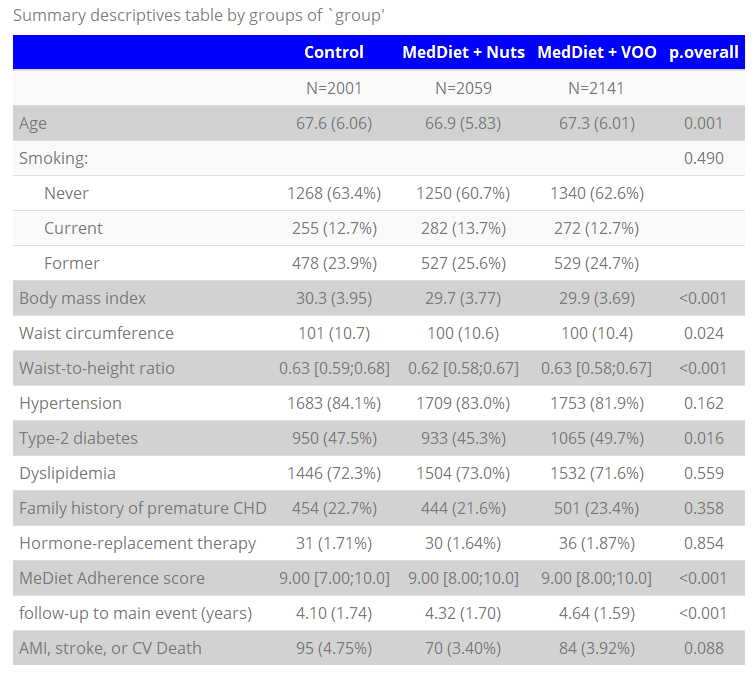
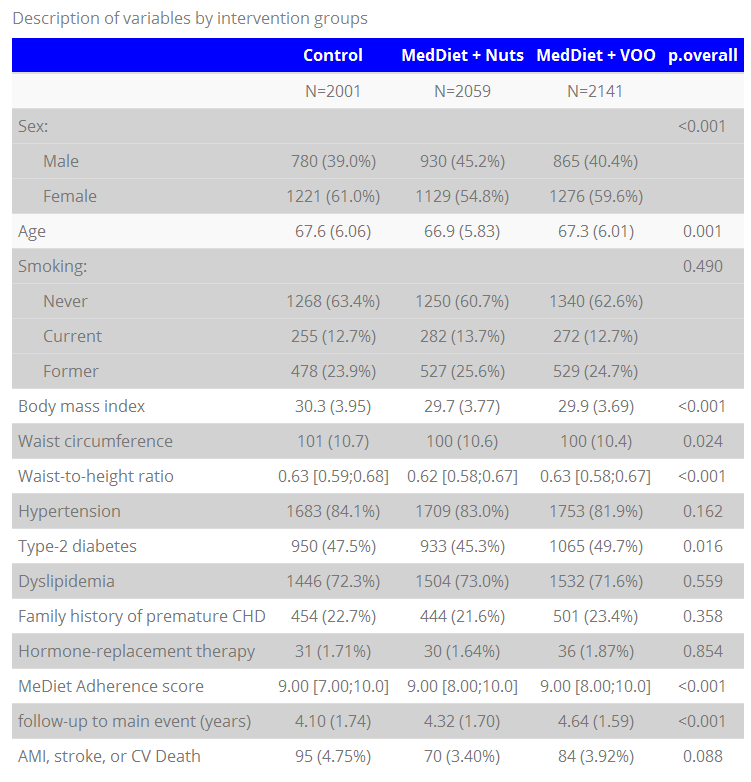
updates

diff --git a/README.md b/README.md
@@ -33,7 +33,6 @@ Install the **`compareGroups`** package from CRAN and then load it by typing:
 
 ```
 install.packages("compareGroups")
-library(compareGroups)
 ```
 
 or from github
@@ -51,6 +50,7 @@ In the following table, some variables from the PREDIMED study ([http://www.pred
 Following, to describe all the variables of the data set just type:
 
 ```
+library(compareGroups) # load compareGroups package
 data(predimed) # load example data
 descrTable(predimed)
 ```
@@ -182,7 +182,9 @@ This is how the table looks like in PDF:
 Also, by using `export2md` function a descriptive table can be inserted in a Rmarkdown chunk to be compiled in HTML, PDF or Word report. Here there is an example of a Rmarkdown compiled to HTML.
 
 ``` r
-export2md(tab, strip = TRUE, first = TRUE)
+export2md(tab, strip = TRUE, first = TRUE, 
+          header.background = "blue", header.color = "white", 
+          caption = "Description of variables by intervention groups")
 ```
 
 <img src="./man/figures/exampleHTML.png" alt="drawing" width="600"/>
@@ -236,7 +238,8 @@ AMI, stroke, or CV Death           56 (7.18%)       41 (4.41%)       51 (5.90%) 
 or when is complied in HTML 
 
 ``` r
-export2md(tabestr, strip = TRUE, first = TRUE)
+export2md(tabestr, strip = TRUE, first = TRUE, 
+          header.background = "blue", header.color = "white")
 ```
 
 
